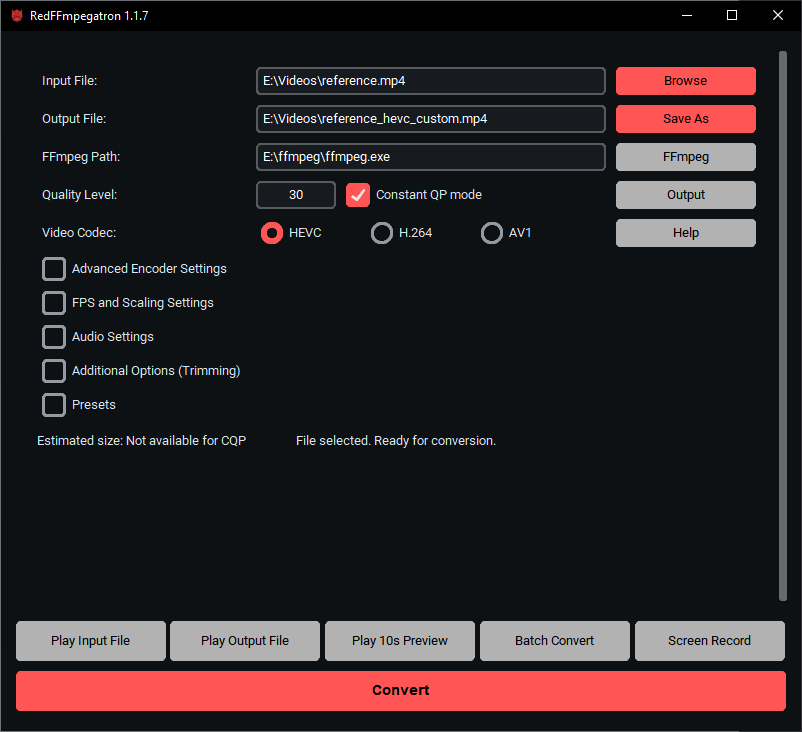
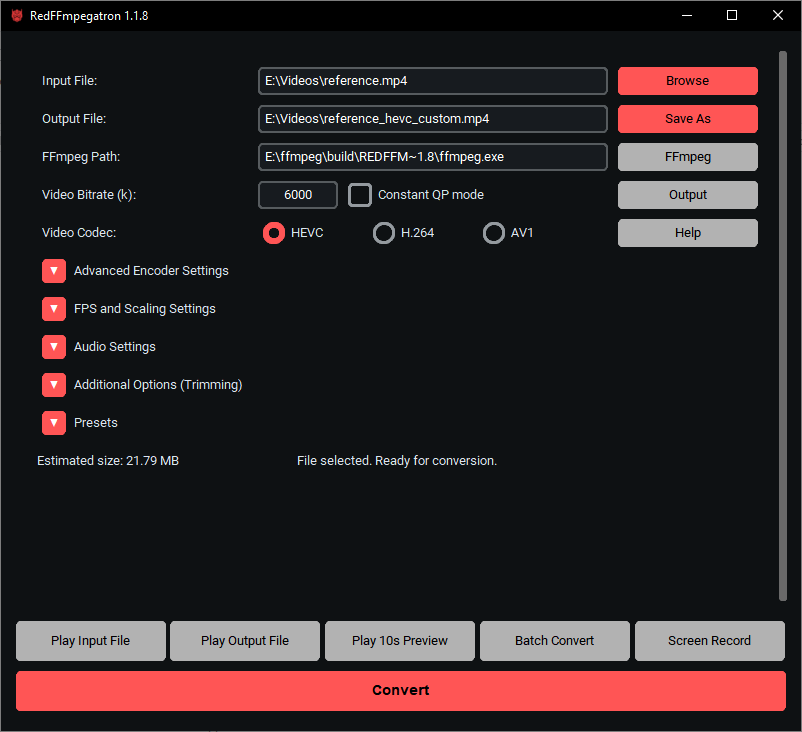
Release 1.1.8

diff --git a/RedFFmpegatron.py b/RedFFmpegatron.py
@@ -36,6 +36,79 @@ TEXT_COLOR_B = "#000000"
 PLACEHOLDER_COLOR = "#a0a0a0"
 
 
+class TextCheckbox(ctk.CTkFrame):
+    def __init__(self, master=None, text="", variable=None, command=None, **kwargs):
+        super().__init__(master, **kwargs)
+        self.configure(fg_color="transparent")
+
+        self.var = variable if variable is not None else ctk.BooleanVar()
+        self.command = command
+        self.text = text
+
+        self.unchecked_char = "▼"
+        self.checked_char = "▲"
+
+        # Main container for checkbox and text
+        self.container = ctk.CTkFrame(self, fg_color="transparent")
+        self.container.pack(anchor="w", fill="x")
+
+        # Checkbox as a label
+        self.checkbox_label = ctk.CTkLabel(
+            self.container,
+            text=self.unchecked_char,
+            width=24,
+            height=24,
+            corner_radius=6,
+            fg_color=ACCENT_RED,
+            text_color=TEXT_COLOR_W,
+            cursor="hand2",
+        )
+        self.checkbox_label.pack(side="left", padx=(0, 8))
+
+        # Text label
+        self.text_label = ctk.CTkLabel(
+            self.container,
+            text=text,
+            cursor="hand2",
+        )
+        self.text_label.pack(side="left", fill="x", expand=True)
+
+        # Bind click events to both labels
+        self.checkbox_label.bind("<Button-1>", self.toggle)
+        self.text_label.bind("<Button-1>", self.toggle)
+
+        # Add hover effects
+        self.checkbox_label.bind("<Enter>", self._on_hover)
+        self.checkbox_label.bind("<Leave>", self._on_leave)
+        self.text_label.bind("<Enter>", self._on_hover)
+        self.text_label.bind("<Leave>", self._on_leave)
+
+        self.var.trace_add("write", self.update_display)
+
+    def _on_hover(self, event):
+        self.checkbox_label.configure(fg_color=HOVER_RED)
+
+    def _on_leave(self, event):
+        self.checkbox_label.configure(fg_color=ACCENT_RED)
+
+    def toggle(self, event=None):
+        self.var.set(not self.var.get())
+        if self.command:
+            self.command()
+
+    def update_display(self, *args):
+        if self.var.get():
+            self.checkbox_label.configure(text=self.checked_char)
+        else:
+            self.checkbox_label.configure(text=self.unchecked_char)
+
+    def get(self):
+        return self.var.get()
+
+    def set(self, value):
+        self.var.set(value)
+
+
 # DRAG N DROP FILES
 class DropTarget:
     def __init__(self, hwnd, callback):
@@ -527,7 +600,7 @@ class VideoConverterApp:
         self.batch_files = []
         self.video_metadata_cache = {}
         self.master = master
-        master.title("RedFFmpegatron 1.1.7")
+        master.title("RedFFmpegatron 1.1.8")
         master.geometry("800x700")
         master.minsize(800, 700)
         master.maxsize(800, 900)
@@ -920,13 +993,11 @@ class VideoConverterApp:
         av1_rb.pack(side="left", padx=5)
 
         # Encoder Options
-        encoder_options_frame_toggle = ctk.CTkCheckBox(
+        encoder_options_frame_toggle = TextCheckbox(
             main_frame,
             text="Advanced Encoder Settings",
             variable=self.enable_encoder_options,
             command=self._toggle_encoder_options_frame,
-            fg_color=ACCENT_RED,
-            hover_color=HOVER_RED,
         )
         encoder_options_frame_toggle.grid(row=5, column=0, sticky="w", padx=10, pady=5)
 
@@ -1253,13 +1324,11 @@ class VideoConverterApp:
         ).grid(row=4, column=2, columnspan=2, sticky="w", padx=15, pady=2)
 
         # FPS and Scaling
-        fps_scale_frame_toggle = ctk.CTkCheckBox(
+        fps_scale_frame_toggle = TextCheckbox(
             main_frame,
             text="FPS and Scaling Settings",
             variable=self.enable_fps_scale_options,
             command=self._toggle_fps_scale_options_frame,
-            fg_color=ACCENT_RED,
-            hover_color=HOVER_RED,
         )
         fps_scale_frame_toggle.grid(row=7, column=0, sticky="w", padx=10, pady=5)
 
@@ -1522,13 +1591,11 @@ class VideoConverterApp:
         self.videosr_options_frame.grid_remove()
 
         # Audio Settings Toggle
-        audio_frame_toggle = ctk.CTkCheckBox(
+        audio_frame_toggle = TextCheckbox(
             main_frame,
             text="Audio Settings",
             variable=self.enable_audio_options,
             command=self._toggle_audio_options_frame,
-            fg_color=ACCENT_RED,
-            hover_color=HOVER_RED,
         )
         audio_frame_toggle.grid(row=9, column=0, sticky="w", padx=10, pady=5)
 
@@ -1601,13 +1668,11 @@ class VideoConverterApp:
             rb.grid(row=1, column=i + 2, sticky="w", padx=15, pady=10)
 
         # Additional Options
-        additional_options_toggle = ctk.CTkCheckBox(
+        additional_options_toggle = TextCheckbox(
             main_frame,
             text="Additional Options (Trimming)",
             variable=self.enable_additional_options,
             command=self._toggle_additional_options_frame,
-            fg_color=ACCENT_RED,
-            hover_color=HOVER_RED,
         )
         additional_options_toggle.grid(row=11, column=0, sticky="w", padx=10, pady=5)
         self.additional_options_frame = ctk.CTkFrame(main_frame, fg_color=SECONDARY_BG)
@@ -2009,13 +2074,11 @@ class VideoConverterApp:
         ).pack(side="left")
 
         # Presets Section
-        presets_frame_toggle = ctk.CTkCheckBox(
+        presets_frame_toggle = TextCheckbox(
             main_frame,
             text="Presets",
             variable=self.enable_presets,
             command=self._toggle_presets_frame,
-            fg_color=ACCENT_RED,
-            hover_color=HOVER_RED,
         )
         presets_frame_toggle.grid(row=13, column=0, sticky="w", padx=10, pady=5)
         self.presets_frame = ctk.CTkFrame(main_frame, fg_color=SECONDARY_BG)
@@ -3113,7 +3176,7 @@ class VideoConverterApp:
                 "saved_additional_options": self.saved_additional_options.get(),
                 "saved_additional_filter_options": self.saved_additional_filter_options.get(),
                 "saved_additional_audio_filter_options": self.saved_additional_audio_filter_options.get(),
-                "version": "1.1.7",
+                "version": "1.1.8",
             }
 
             with open(settings_file, "w", encoding="utf-8") as file:
@@ -3356,54 +3419,52 @@ class VideoConverterApp:
                 raise ValueError("Video bitrate must be a number.")
 
         vf_filters = []
-        if self.enable_fps_scale_options.get():
-            fps_num = self.fps_option.get()
-            if fps_num == "custom":
-                fps_num = self.custom_fps.get()
-                if not fps_num:
-                    raise ValueError("Please specify custom FPS.")
-            if fps_num != "source":
-                vf_filters.append(f"fps={fps_num}")
-            scale_width = self.video_format_option.get()
-            if scale_width == "custom":
-                scale_width = self.custom_video_width.get()
-                if not scale_width:
-                    raise ValueError("Please specify custom video width.")
-            if scale_width != "source":
-                if self.enable_videosr.get():
-                    # Use VideoSR scaling with pixel format
+        fps_num = self.fps_option.get()
+        if fps_num == "custom":
+            fps_num = self.custom_fps.get()
+            if not fps_num:
+                raise ValueError("Please specify custom FPS.")
+        if fps_num != "source":
+            vf_filters.append(f"fps={fps_num}")
+        scale_width = self.video_format_option.get()
+        if scale_width == "custom":
+            scale_width = self.custom_video_width.get()
+            if not scale_width:
+                raise ValueError("Please specify custom video width.")
+        if scale_width != "source":
+            if self.enable_videosr.get():
+                # Use VideoSR scaling with pixel format
+                pixel_format = self.videosr_pixel_format.get()
+                if pixel_format != "same":
+                    vf_filters.insert(
+                        0, f"format={pixel_format},hwupload=extra_hw_frames=64"
+                    )
+                    height = round(int(scale_width) * 9 / 16)
+                    height = height + (height % 2)
+                    sr_filter = (
+                        f"sr_amf=w={scale_width}:h={height}:"
+                        f"algorithm={self.videosr_algorithm.get()}"
+                    )
+                    if self.videosr_sharpness.get() != "-1":
+                        sr_filter += f":sharpness={self.videosr_sharpness.get()}"
+                    if self.videosr_keep_ratio.get():
+                        sr_filter += ":keep-ratio=1"
+                    if self.videosr_fill.get():
+                        sr_filter += ":fill=1"
+
+                    # hwdownload and format to the end
                     pixel_format = self.videosr_pixel_format.get()
-                    if pixel_format != "same":
-                        vf_filters.insert(
-                            0, f"format={pixel_format},hwupload=extra_hw_frames=64"
-                        )
-                        height = round(int(scale_width) * 9 / 16)
-                        height = height + (height % 2)
-                        sr_filter = (
-                            f"sr_amf=w={scale_width}:h={height}:"
-                            f"algorithm={self.videosr_algorithm.get()}"
-                        )
-                        if self.videosr_sharpness.get() != "-1":
-                            sr_filter += f":sharpness={self.videosr_sharpness.get()}"
-                        if self.videosr_keep_ratio.get():
-                            sr_filter += ":keep-ratio=1"
-                        if self.videosr_fill.get():
-                            sr_filter += ":fill=1"
+                    sr_filter += f",hwdownload,format={pixel_format}"
 
-                        # hwdownload and format to the end
-                        pixel_format = self.videosr_pixel_format.get()
-                        sr_filter += f",hwdownload,format={pixel_format}"
+                    vf_filters.append(sr_filter)
+            else:
+                # Use standard scaling
+                interp_flag = self.interpolation_algo.get()
+                vf_filters.append(f"scale={scale_width}:-2:flags={interp_flag}")
 
-                        vf_filters.append(sr_filter)
-                else:
-                    # Use standard scaling
-                    interp_flag = self.interpolation_algo.get()
-                    vf_filters.append(f"scale={scale_width}:-2:flags={interp_flag}")
-
-        if self.enable_additional_options.get():
-            addvf_val = self.additional_filter_options.get().strip()
-            if addvf_val and addvf_val != self.additional_filter_options_placeholder:
-                vf_filters.append(addvf_val)
+        addvf_val = self.additional_filter_options.get().strip()
+        if addvf_val and addvf_val != self.additional_filter_options_placeholder:
+            vf_filters.append(addvf_val)
 
         if vf_filters:
             command.extend(["-vf", ",".join(vf_filters)])
@@ -3527,13 +3588,12 @@ class VideoConverterApp:
             command.extend(other_additional_options)
 
         # Add audio filters if any
-        if self.enable_additional_options.get():
-            add_af_val = self.additional_audio_filter_options.get().strip()
-            if (
-                add_af_val
-                and add_af_val != self.additional_audio_filter_options_placeholder
-            ):
-                command.extend(["-af", add_af_val])
+        add_af_val = self.additional_audio_filter_options.get().strip()
+        if (
+            add_af_val
+            and add_af_val != self.additional_audio_filter_options_placeholder
+        ):
+            command.extend(["-af", add_af_val])
 
         # Audio settings
         audio_opt = self.audio_option.get()

diff --git a/README.md b/README.md
@@ -105,8 +105,8 @@ You can compile the Python script into a standalone Windows executable (`.exe`) 
       --include-data-file=rff-about.txt=./rff-about.txt ^
       --include-data-file=rff-license.txt=./rff-license.txt ^
       --product-name="RedFFmpegatron" ^
-      --product-version="1.1.7" ^
-      --file-version="1.1.7" ^
+      --product-version="1.1.8" ^
+      --file-version="1.1.8" ^
       --file-description="RedFFmpegatron" ^
       --company-name="Deepseek Enjoyer" ^
       --copyright="Copyright (C) 2025 hadouken" ^

diff --git a/CHANGELOG.md b/CHANGELOG.md
@@ -1,5 +1,8 @@
 # RedFFmpegatron - Changelog
 
+## [1.1.8] - 2025-11-15
+- UI/UX fixes and updates.
+
 ## [1.1.7] - 2025-10-28
 - Additional Options: Added "Save/Load" buttons for custom filter settings;
 - UI fixes.
